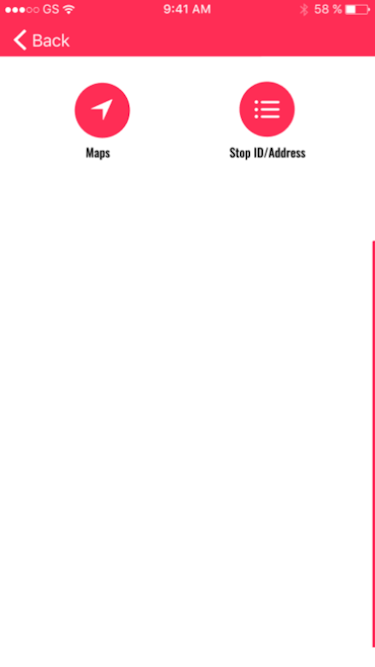
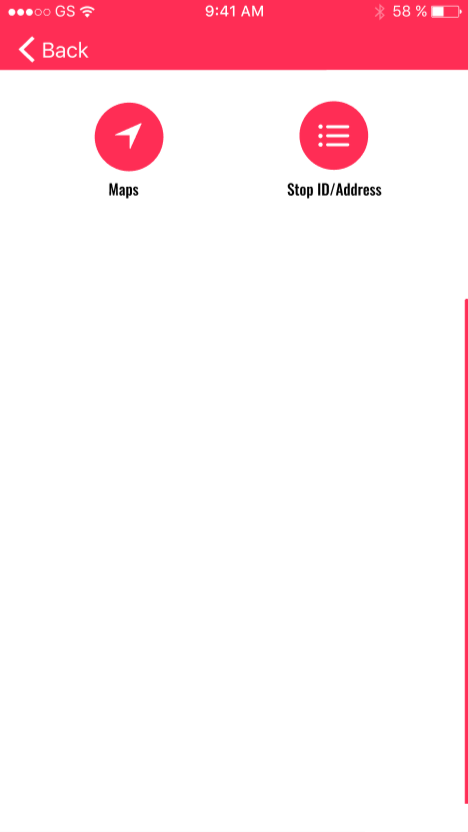
revised formatting and text - submission ready 2

diff --git a/css/style.css b/css/style.css
@@ -8,30 +8,19 @@ body {
   font-size: 16px
 }
 
-hr {
-  color: #d9d9d9;
-    display: block;
-    margin-top: .4em;
-    margin-bottom: .4em;
-    margin-left: 5%;
-    margin-right: 0%;
-    border-style: solid;
-    border-width: .75px;
-}
-
-
 nav {
-  background-image: url("../Images/FullBG.png");
+  background-image: url("../Images/FullBg.png");
   background-repeat: no-repeat;
+  background-size: cover;
   width: 375px;
 }
 
 .container {
   background-color: white;
+  height: 667px;
+  width: 375px;
   margin-top: 10%;
   margin-left: 25%;
-  height: 667px;
-  width: 374px;
 }
 
 .content {
@@ -40,39 +29,60 @@ nav {
   width: 375px;
 }
 
-h1 {
-  line-height: 1.75em;
-  margin-left: 4%;
-  font-size: 1em;
-  font-weight: 550;
+hr {
+    border-style: solid;
+    border-width: .75px;
+    color: #d9d9d9;
+    display: block;
+    margin-left: 5%;
+    margin-right: 0%;
 }
 
+hr.hr2 {
+    border-style: solid;
+    border-width: .75px;
+    color: #d9d9d9;
+    display: block;
+    margin-left: 0%;
+    margin-right: 0%;
+    margin-bottom: 3%;
+}
+
+h1 {
+  font-size: 1em;
+  font-weight: 550;
+  line-height: 1.75em;
+  margin-left: 7%;
+}
 
 h2 {
-  margin-left: 3%;
   font-size: .85em;
   font-weight: 700;
+  margin-left: 7%;
 }
 
 h3 {
+  font-size: .90em;
   line-height: 1em;
-  margin-left: 5%;
-  font-size: 1em;
+  margin-left: 7%;
 }
 
 h4 {
-  line-height: 1em;
-  margin-left: 4%;
-  font-size: 1.1em;
+  font-size: 1em;
   font-weight: bolder;
+  line-height: 1em;
+  margin-bottom: 3%;
+  margin-left: 7%;
+
 }
 
 h5 {
+  font-size: .75em;
   line-height: 1.75em;
-  margin-left: 5%;
-  font-size: .85em;
+  margin-left: 7%;
 }
-br {
-  line-height: 185px;
+
+br.brlarge {
+  line-height: 175px;
 }
 }

diff --git a/index.html b/index.html
@@ -12,13 +12,15 @@
     <section class="container">
 <nav>
 <div class="content">
-  <br>
-  <hr>
+  <br class="brlarge">
+
+  <hr class="hr2">
 <h4>Showing Arrivals: Washington & State</h4>
-<hr>
+<hr class="hr2">
 
 <h1>Line #151/Devon/Clark (N):</h12>
 <h3>8min, 24min, 40min</h3>
+
 <hr>
 
 <h1>Line #60/Randolph/Harbor Dr. (E):</h1>
@@ -37,18 +39,18 @@
 <h3>15min, 30min, 45min</h3>
 
 <hr>
+
 <h2>Line #6X/Jackson Park Express (Reroute):</h2>
-<h5>N/A</h5>
+<h5>n/a</h5>
 
 <h2>Line #4/Cottage Grove (Out of Service):</h2>
-<h5>Resumes 12:10am</h5>
+<h5>resumes 12:10am</h5>
 
 <h2>Line #20/Madison (Out of Service):</h2>
-<h5>Resumes 12:10am</h5>
+<h5>resumes 12:10am</h5>
 
 <h2>Line #157/Streeterville/Taylor (Out of Service):</h2>
-<h5>Resumes 6:00am</h5>
-<hr>
+<h5>resumes 6:00am</h5>
 
   </div>
 
